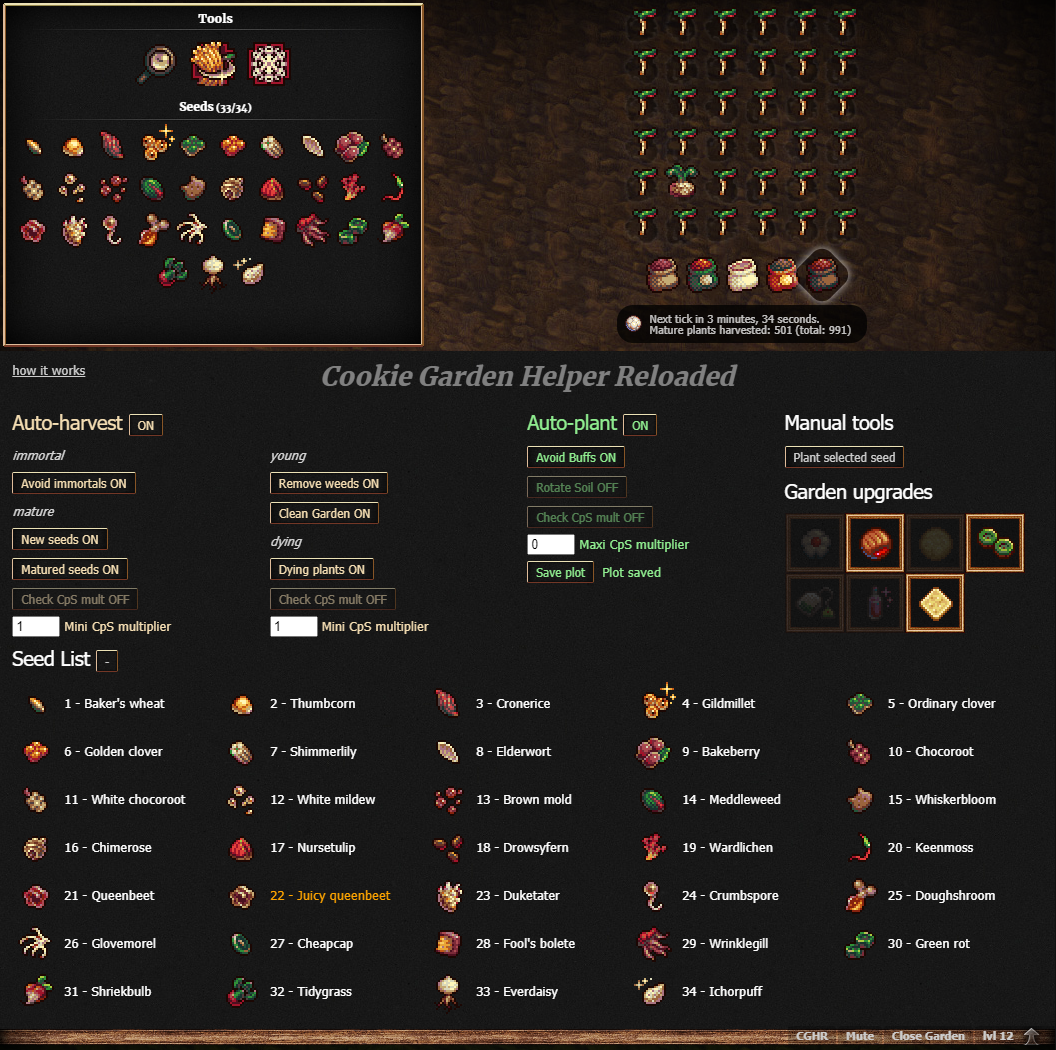
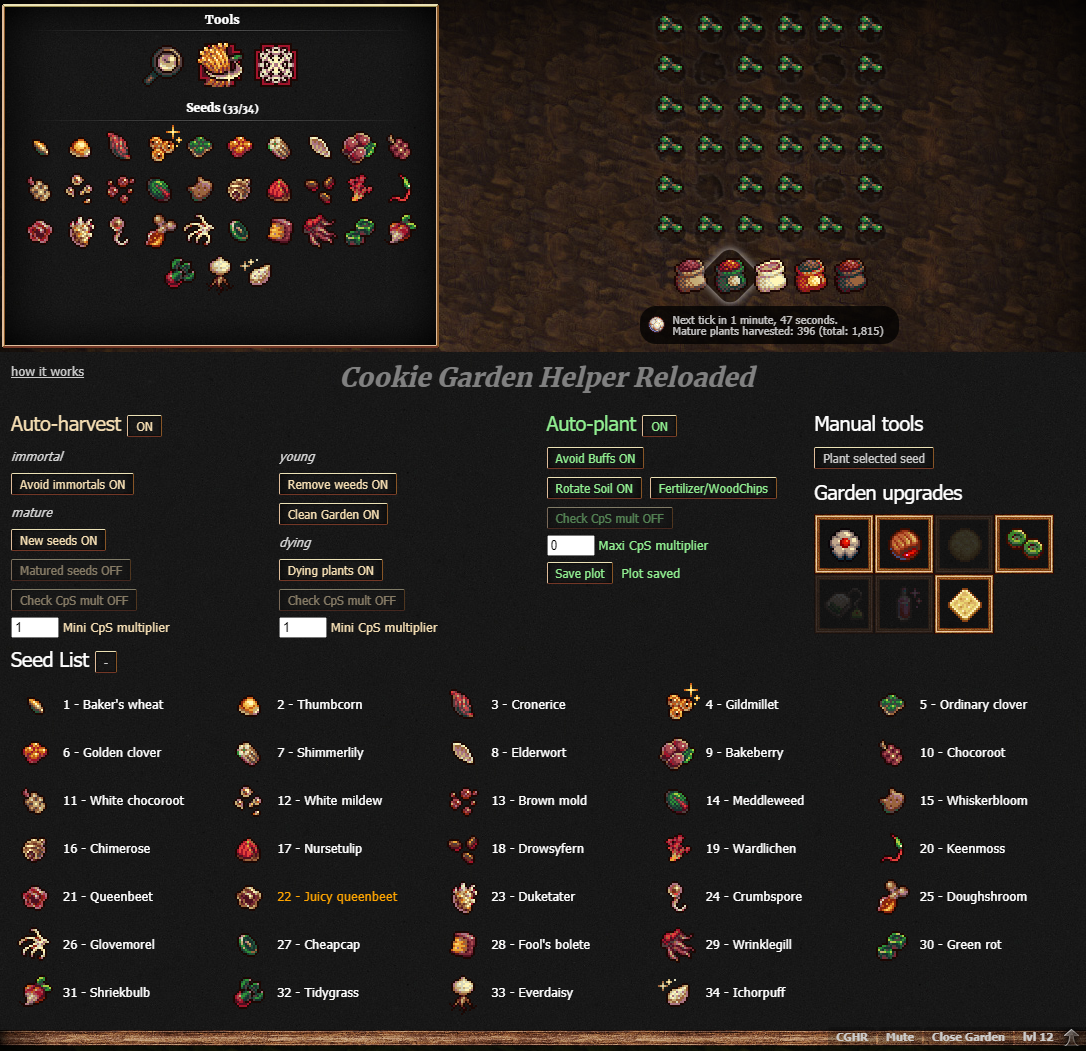
new soil rotation combo selector

diff --git a/CookieGardenHelper-reloaded/main.js b/CookieGardenHelper-reloaded/main.js
@@ -3,7 +3,7 @@ Game.registerMod("cookiegardenhelperreloaded",{
 	init:function(){
 		this.name = 'Cookie Garden Helper - Reloaded';
 		this.modid = 'cookiegardenhelperreloaded';
-		this.version = '1.4.6';
+		this.version = '1.4.7';
 		this.GameVersion = '2.042';
 		
 		this.config = this.defaultConfig();
@@ -225,9 +225,23 @@ Game.registerMod("cookiegardenhelperreloaded",{
 		}
 		return `<a class="btn option" name="${name}" id="${this.makeId(name)}" title="${title}">${text}</a>`;
 	},
+	customButton:function(name, text, title, active) {
+		return `<a class="toggleBtn option ${active ? '' : 'off'}" name="${name}" id="${this.makeId(name)}" title="${title}">${text}</a>`;
+	},
 	toggleButton:function(name) {
-		let btn = this.doc.qSel(`#cookieGardenHelperReloaded a.toggleBtn[name=${name}]`);
-		btn.classList.toggle('off');
+		if(name=="autoPlantRotateSoilComboName"){
+			this.setNextCombo();
+			let btn = this.doc.qSel(`#cookieGardenHelperReloaded a.toggleBtn[name=${name}]`);
+			btn.innerHTML=this.getSoilRotationCombo()[0];
+		}else{
+			let btn = this.doc.qSel(`#cookieGardenHelperReloaded a.toggleBtn[name=${name}]`);
+			btn.classList.toggle('off');
+			if(name=="autoPlantRotateSoil"){
+				let name2 = "autoPlantRotateSoilComboName"
+				let btn2 = this.doc.qSel(`#cookieGardenHelperReloaded a.toggleBtn[name=${name2}]`);
+				btn2.classList.toggle('off');
+			}
+		}
 	},
 	labelWithState:function(name, text, textActive, active) {
 		return `<span name="${name}" id="${this.makeId(name)}" class="labelWithState ${active ? 'active' : ''}"">
@@ -370,8 +384,12 @@ Game.registerMod("cookiegardenhelperreloaded",{
 				  <p>
 					${this.button(
 					  'autoPlantRotateSoil', 'Rotate Soil',
-					  'Use Wood chips if mostly growing, Clay otherwise', true,
+					  'Rotate soil based on mature/young counts', true,
 					  this.config.autoPlantRotateSoil
+					)}
+					${this.customButton(
+					  'autoPlantRotateSoilComboName', this.getSoilRotationCombo()[0],
+					  'Cycle on possible soil rotation combos', this.config.autoPlantRotateSoil
 					)}
 				  </p>
 				  <p>
@@ -734,28 +752,45 @@ Game.registerMod("cookiegardenhelperreloaded",{
 	templace:function(){
 		return 1
 	},
+	getSoilRotationCombo:function(){
+		//return array with
+		//	0 : current combo label
+		//	1 : most young soil
+		//	2 : most mature soil
+		//	3 : next soil combo id
+		switch (this.config.autoPlantRotateSoilCombo) {
+			case 0:
+				return ['Fertilizer/Clay',1,2,1];
+			case 1:
+				return ['Fertilizer/WoodChips',1,4,0];
+			default:
+				return ['Fertilizer/Clay Def',1,2,1];
+		}
+	},
+	setNextCombo:function(){
+		this.config.autoPlantRotateSoilCombo=this.getSoilRotationCombo()[3]
+	},
 	setCorrectSoil:function(){
 		var M = this.minigame();
 		if(!M.freeze){
-			var y = 0;
-			var m = 0;
+			var young = 0;
+			var matur = 0;
 			for (let x=0; x<6; x++) {
 				for (let y=0; y<6; y++) {
 					if(!this.tileIsEmpty(x, y)){
 						let tile = this.getTile(x, y);
 						let stage = this.getPlantStage(tile);
 						if(stage=='young'){
-							y++;
+							young++;
 						}else{
-							m++;
+							matur++;
 						}
 					}
 				}
 			}
 			
-			var clay = 2;
-			var woodchips = 4;
-			var targetSoil = y>m?woodchips:clay;
+			var soilCombo = this.getSoilRotationCombo();
+			var targetSoil = young>matur?soilCombo[1]:soilCombo[2];
 			
 			if( M.soil!=targetSoil && M.parent.amount>=M.soilsById[targetSoil].req && M.nextSoil<Date.now() ){
 				M.nextSoil=Date.now()+(Game.Has('Turbo-charged soil')?1:(1000*60*10));
@@ -964,6 +999,7 @@ Game.registerMod("cookiegardenhelperreloaded",{
 			autoPlant: false,
 			autoPlantAvoidBuffs: true,
 			autoPlantRotateSoil: false,
+			autoPlantRotateSoilCombo: 0,
 			autoPlantCheckCpSMult: false,
 			autoPlantMaxiCpSMult: { value: 0, min: 0 },
 			savedPlot: [],

diff --git a/README.md b/README.md
@@ -61,7 +61,7 @@ below or equal to the one specified at **Maxi CpS multiplier**
 ***Note:*** mouse over the message *Plot saved*, to see what was saved.
 
 The option **Rotate Soil** :
-  - **ON** - The soil is automatically changed to clay if there are more mature seeds than young. Or to wood chips if there are more young seeds.
+  - **ON** - The soil is automatically changed to clay or wood chips if there are more mature seeds than young. Or to fertilizer if there are more young seeds.
   - **OFF** - The soild will not change on its own.
 
 ### Manual tools
@@ -143,6 +143,8 @@ The rest of your configuration will remain.
 >1.4.5: `Improved the golden clover layout`
 >
 >1.4.6: `Fixed a conflict when CCSE was installed`
+>
+>1.4.7: `Added a combo selection for soil rotation, and fixed an issue with the rotation`
 
 ## Issues
 
